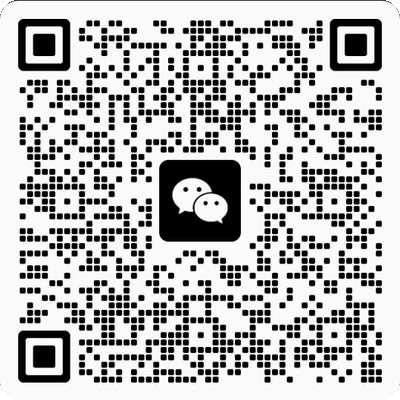
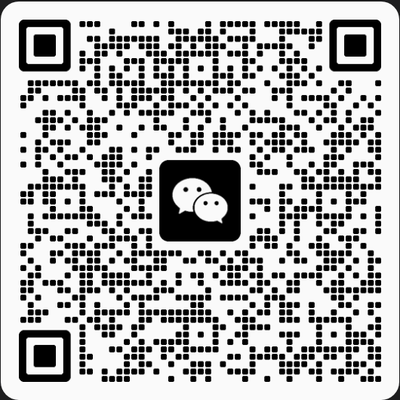
feat(settings): add donate group and update community QR
- Add Chinese-only Support the Author group with WeChat Pay / Alipay QR toggles
- Change the Chinese social section title to invite likes and comments
- Refresh the WeChat group QR (README poster + bundled square derivative)
- Add donate localization keys across all shipped languages

diff --git a/Sources/StatusTrioCore/UI/Settings/AboutCommunityViews.swift b/Sources/StatusTrioCore/UI/Settings/AboutCommunityViews.swift
@@ -232,6 +232,71 @@ struct AboutCommunityView: View {
     }
 }
 
+/// "Support the Author" group (Chinese only): two buttons that reveal the
+/// author's WeChat Pay / Alipay collection QR codes on demand instead of
+/// showing both inline.
+struct AboutDonateView: View {
+    @EnvironmentObject private var localization: Localization
+
+    private enum PayMethod: String, Identifiable, CaseIterable {
+        case wechat
+        case alipay
+
+        var id: String { rawValue }
+
+        var titleKey: LocalizationKey {
+            switch self {
+            case .wechat: return .settingsAboutDonateWeChat
+            case .alipay: return .settingsAboutDonateAlipay
+            }
+        }
+
+        var image: NSImage? {
+            switch self {
+            case .wechat: return AboutAssets.weChatPayQRCode
+            case .alipay: return AboutAssets.alipayQRCode
+            }
+        }
+    }
+
+    @State private var revealed: PayMethod?
+
+    var body: some View {
+        VStack(alignment: .leading, spacing: 12) {
+            HStack(spacing: 8) {
+                ForEach(PayMethod.allCases) { method in
+                    Button {
+                        revealed = revealed == method ? nil : method
+                    } label: {
+                        HStack(spacing: 4) {
+                            Image(systemName: revealed == method ? "checkmark.circle.fill" : "qrcode")
+                            Text(localization.string(method.titleKey))
+                        }
+                    }
+                    .buttonStyle(.bordered)
+                    .controlSize(.small)
+                }
+                Spacer(minLength: 0)
+            }
+
+            if let revealed, let image = revealed.image {
+                Image(nsImage: image)
+                    .resizable()
+                    .interpolation(.high)
+                    .aspectRatio(contentMode: .fit)
+                    .frame(maxWidth: 240, maxHeight: 320)
+                    .clipShape(RoundedRectangle(cornerRadius: 10, style: .continuous))
+                    .overlay(
+                        RoundedRectangle(cornerRadius: 10, style: .continuous)
+                            .strokeBorder(Color.primary.opacity(0.08), lineWidth: 1)
+                    )
+                    .accessibilityLabel(localization.string(revealed.titleKey))
+            }
+        }
+        .frame(maxWidth: .infinity, alignment: .leading)
+    }
+}
+
 /// "More Apps" group: a tappable list of the author's other apps.
 struct AboutMoreAppsView: View {
     @EnvironmentObject private var localization: Localization

diff --git a/Sources/StatusTrioCore/Localization/LocalizationKey.swift b/Sources/StatusTrioCore/Localization/LocalizationKey.swift
@@ -986,6 +986,9 @@ enum LocalizationKey: String, CaseIterable, Hashable, Sendable {
     case settingsAboutSocialXiaohongshu = "settings.about.social.xiaohongshu"
     case settingsAboutSocialBilibili = "settings.about.social.bilibili"
     case settingsAboutSocialBlog = "settings.about.social.blog"
+    case settingsAboutDonateTitle = "settings.about.donate.title"
+    case settingsAboutDonateWeChat = "settings.about.donate.wechat"
+    case settingsAboutDonateAlipay = "settings.about.donate.alipay"
     case settingsAboutCommunityTitle = "settings.about.community.title"
     case settingsAboutCommunityQQ = "settings.about.community.qq"
     case settingsAboutCommunityQQDescription = "settings.about.community.qqDescription"

diff --git a/Tests/StatusTrioCoreTests/AboutContentTests.swift b/Tests/StatusTrioCoreTests/AboutContentTests.swift
@@ -112,6 +112,8 @@ final class AboutContentTests: XCTestCase {
     func testBundledAboutImagesArePresent() {
         XCTAssertNotNil(AboutAssets.weChatQRCode, "missing bundled WeChat QR")
         XCTAssertNotNil(AboutAssets.qqQRCode, "missing bundled QQ QR")
+        XCTAssertNotNil(AboutAssets.weChatPayQRCode, "missing bundled WeChat Pay QR")
+        XCTAssertNotNil(AboutAssets.alipayQRCode, "missing bundled Alipay QR")
         for name in ["AboutSocialDouyin", "AboutSocialXiaohongshu", "AboutSocialBilibili"] {
             XCTAssertNotNil(AboutAssets.socialIcon(named: name), "missing bundled social icon \(name)")
         }

diff --git a/Sources/StatusTrioCore/UI/Settings/AboutSectionView.swift b/Sources/StatusTrioCore/UI/Settings/AboutSectionView.swift
@@ -80,6 +80,14 @@ struct AboutSectionView: View {
             }
 
             if localization.resolvedLanguage.isChinese {
+                SettingsGroup(localization.string(.settingsAboutDonateTitle)) {
+                    AboutDonateView()
+                        .padding(.horizontal, SettingsMetrics.rowPaddingH)
+                        .padding(.vertical, 12)
+                }
+            }
+
+            if localization.resolvedLanguage.isChinese {
                 SettingsGroup(localization.string(.settingsAboutCommunityTitle)) {
                     AboutCommunityView()
                 }

diff --git a/Sources/StatusTrioCore/UI/Settings/AboutContent.swift b/Sources/StatusTrioCore/UI/Settings/AboutContent.swift
@@ -195,6 +195,18 @@ enum AboutAssets {
         image(named: "AboutQQQR")
     }
 
+    /// The author's WeChat Pay collection QR, revealed on demand from the
+    /// Chinese-only support group.
+    static var weChatPayQRCode: NSImage? {
+        image(named: "AboutWeChatPayQR")
+    }
+
+    /// The author's Alipay collection QR, revealed on demand from the
+    /// Chinese-only support group.
+    static var alipayQRCode: NSImage? {
+        image(named: "AboutAlipayQR")
+    }
+
     static func appIcon(for app: AboutAppLink) -> NSImage? {
         image(named: app.iconResource)
     }
